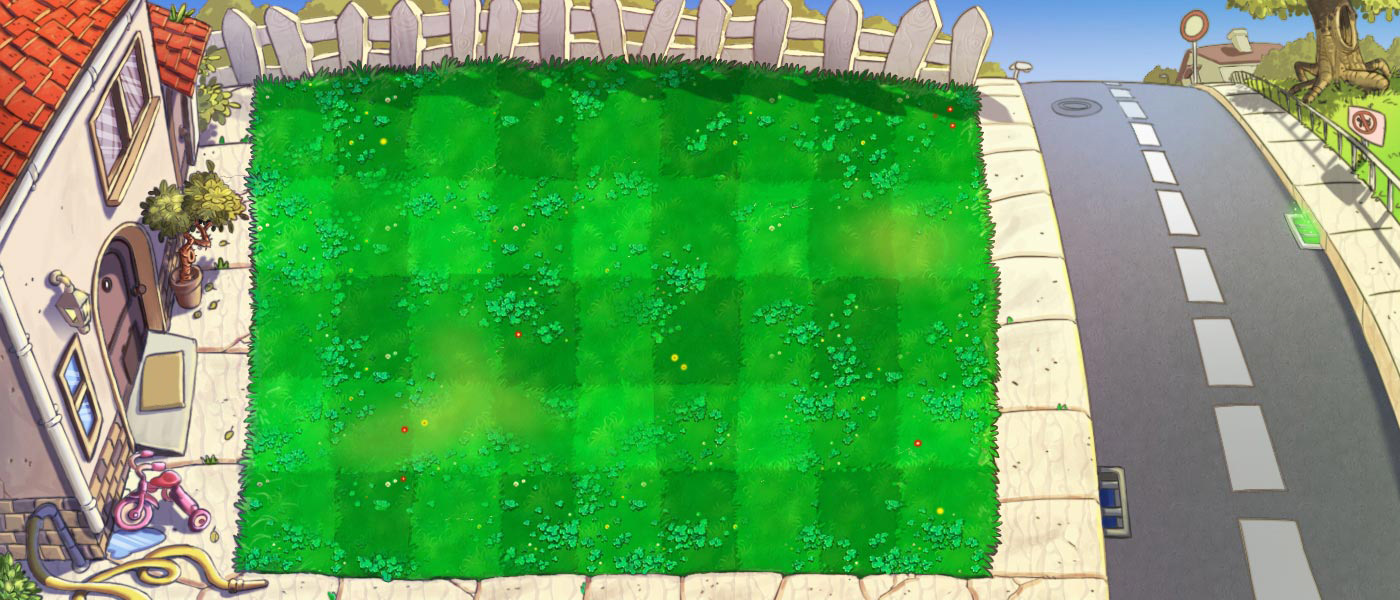
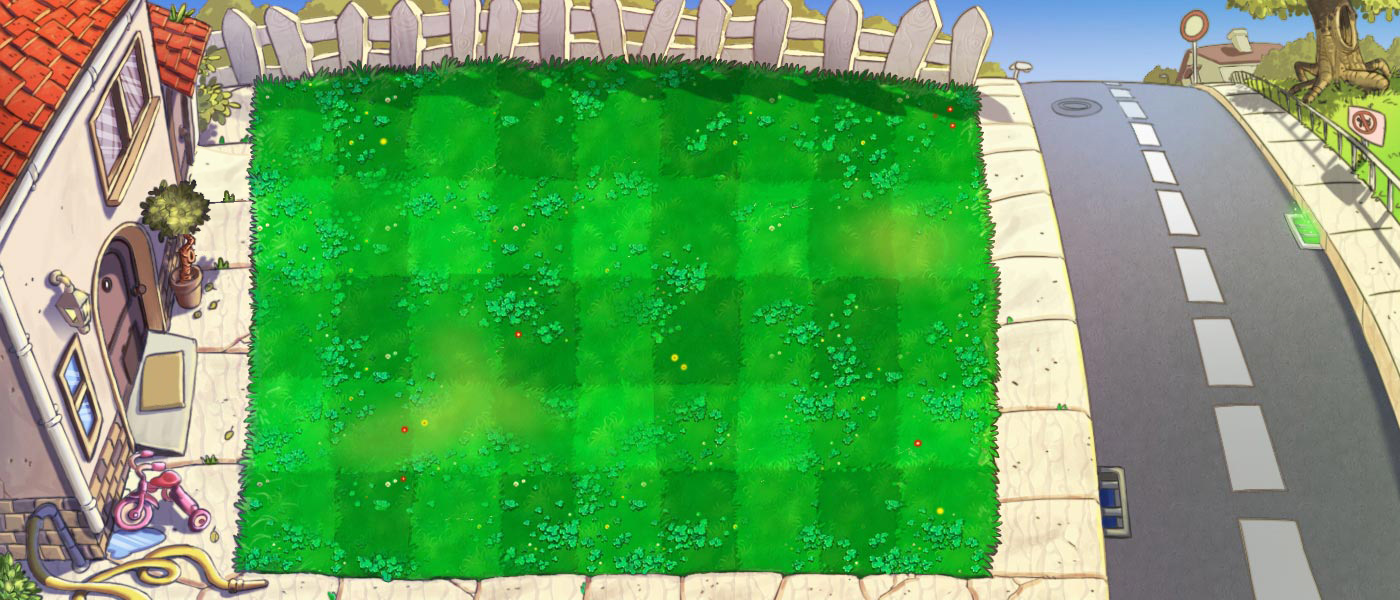
Media Fixes
Fixed some backgrounds

Changed region(s): [[0.0921, 0.24, 0.1843, 0.42]]

diff --git a/js/plants_picker.js b/js/plants_picker.js
@@ -10,7 +10,7 @@ $(document).ready(() => {
 
 function resize_back() {
 	$("#plant-picker-container").css("display","none");
-	set_game(); // SETUP GAME
+	init_game(); // INIT GAME
 }
 
 // Returns to home
@@ -28,7 +28,9 @@ function ppkr_back_home() {
 }
 
 // Loads the animation ready set plant and sets up picked plants
-function set_game() {
+// STARTS GAME
+function init_game() {
+	RUNNING = true;
 	$("#game-area").css("display","grid");
 	$("#mp3").trigger("pause");
 
@@ -42,7 +44,11 @@ function set_game() {
 		$("#mp3").get(0).play();
 
 		// Resize background
-		$("#game-area").css("background-size","135% 93%");
+		if ($("#cartesiano").attr("data-scene") == 3 || $("#cartesiano").attr("data-scene") == 4) {
+			$("#game-area").css("background-size","138% 93%");	
+		} else {
+			$("#game-area").css("background-size","135% 93%");
+		}
 	}, 2500);
 
 	setTimeout(() => {
@@ -58,6 +64,9 @@ function set_game() {
 
 		// Reveal plants in top bar
 		plants_to_topbar();
+
+		// Create columns and rows according to scene
+		cartesiano();
 	}, 3300);
 }
 
@@ -202,4 +211,29 @@ function plants_to_topbar() {
 	}
 
 	seeds.forEach((i) => $("#game-plants").append(i));
+}
+
+
+// Sets up the grid for plants and zombies
+function cartesiano() {
+	let rxc = new Map(
+		[["1","5-10"],["2","5-10"],["3","6-10"],
+		["4","6-10"],["5","5-9"],["6","5-9"]]
+	);
+	let scene = $("#cartesiano").attr("data-scene");
+	let r = rxc.get(scene).split('-')[0];
+	let c = rxc.get(scene).split('-')[1];
+
+	$("#cartesiano").addClass(`scene-${scene}`);
+
+	for (let row = 0; row < r; row++) {
+		let tr = $(`<tr id='tr-${row+1}'></tr>`);
+
+		for (let col = 0; col < c; col++) {
+			let td = $(`<td id='td-${row+1}-${col+1}'></td>`);
+			tr.append(td);
+		}
+
+		$("#cartesiano").append(tr);
+	}
 }

diff --git a/index.html b/index.html
@@ -9,6 +9,7 @@
 	<link rel="stylesheet" type="text/css" href="./css/home.css">
 	<link rel="stylesheet" type="text/css" href="./css/plant-picker.css">
 	<link rel="stylesheet" type="text/css" href="./css/game.css">
+	<link rel="stylesheet" type="text/css" href="./css/cartesiano_scenes.css">
 	<link rel="icon" href="./images/icon.png">
 	<script type="text/javascript" src="./js/jquery-3.7.1.min.js"></script>
 	<script type="text/javascript" src="./js/SFX.js"></script>
@@ -125,7 +126,7 @@
 
 
 	<!-- Section To Place Plants & Zombies -->			
-	<!--div id="cartesiano"></div-->
+	<div id="cartesiano"></div>
 
 
 

diff --git a/js/home.js b/js/home.js
@@ -1,3 +1,5 @@
+let RUNNING = false; // STATE OF GAME
+
 $(document).ready(() => {
 	// Check for existance of game data
 	check_game_data();
@@ -70,6 +72,9 @@ function start_game(scene, lvl) {
 	});
 
 	$("#game-area").attr("data-scene",`${scene}`);
+
+	// Add scene to div "cartesiano"
+	$("#cartesiano").attr("data-scene",`${scene}`);
 
 	$("#mp3").attr('src', `./sounds/levels/Choose Your Seeds.mp3`);
 	$("#mp3").get(0).play();

diff --git a/css/cartesiano_scenes.css b/css/cartesiano_scenes.css
@@ -1,0 +1,17 @@
+.scene-1,
+.scene-2 {
+	grid-column: 9 / 41;
+	grid-row: 4 / 20;
+}
+
+.scene-3,
+.scene-4 {
+	grid-column: 9 / 40;
+	grid-row: 4 / 21;
+}
+
+.scene-5,
+.scene-6 {
+	grid-column: 10 / 40;
+	grid-row: 4 / 21;
+}

diff --git a/css/game.css b/css/game.css
@@ -105,3 +105,13 @@
 	cursor: grab;
 	transform: scale(1.05);
 }
+
+
+
+
+#cartesiano {
+	display: gird;
+	grid-template-columns: repeat(30, 1fr);
+	grid-template-rows: repeat(15, 1fr);
+	outline: 2px solid lime;
+}

diff --git a/js/game.js b/js/game.js
@@ -1,4 +1,10 @@
-$(document).ready(() => {
 
-});
+
+while (RUNNING) {
+
+}
+
+	
+
+
 
